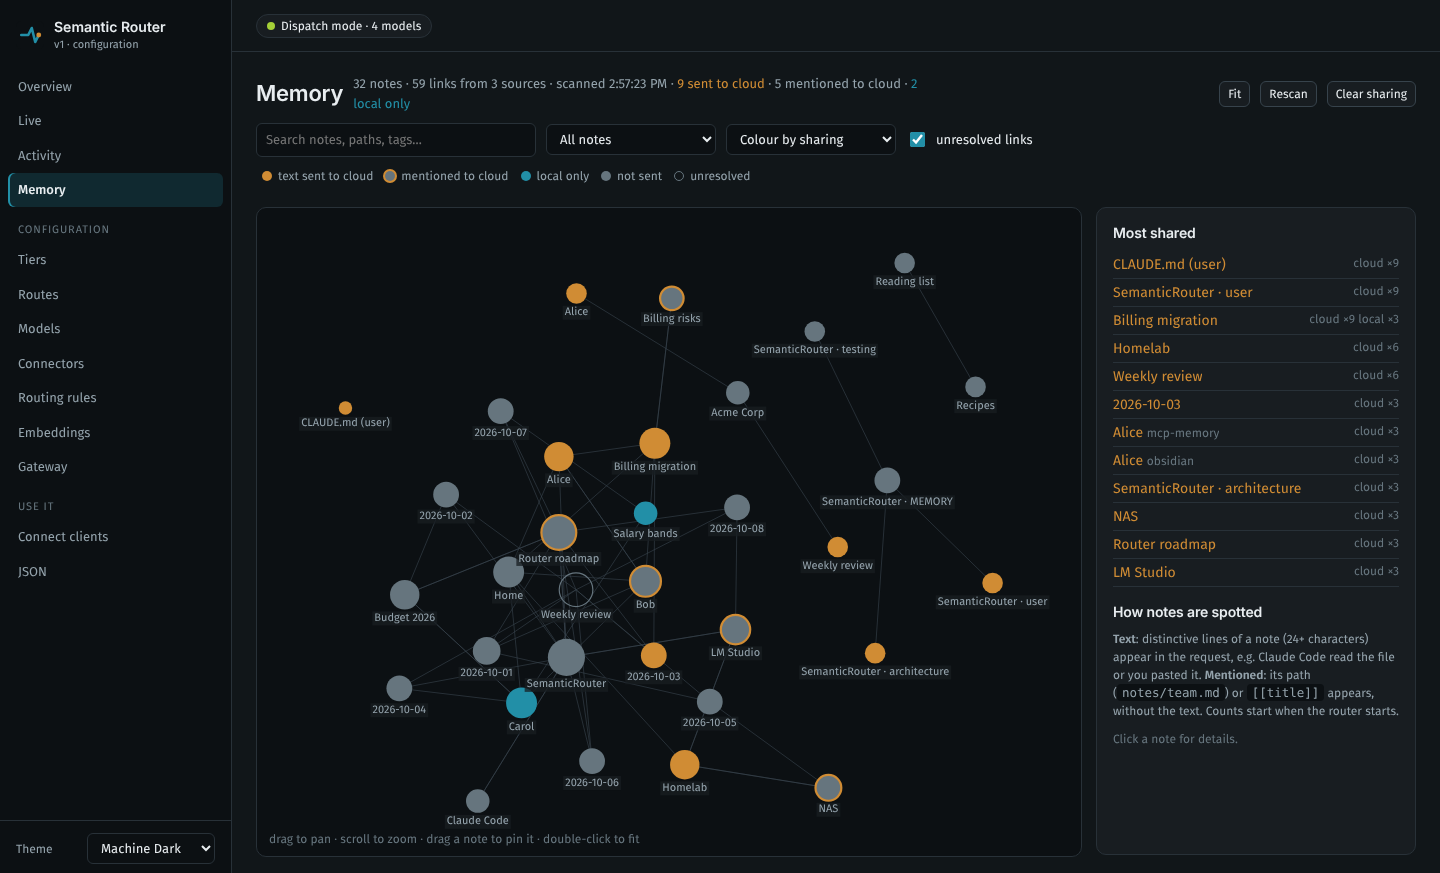
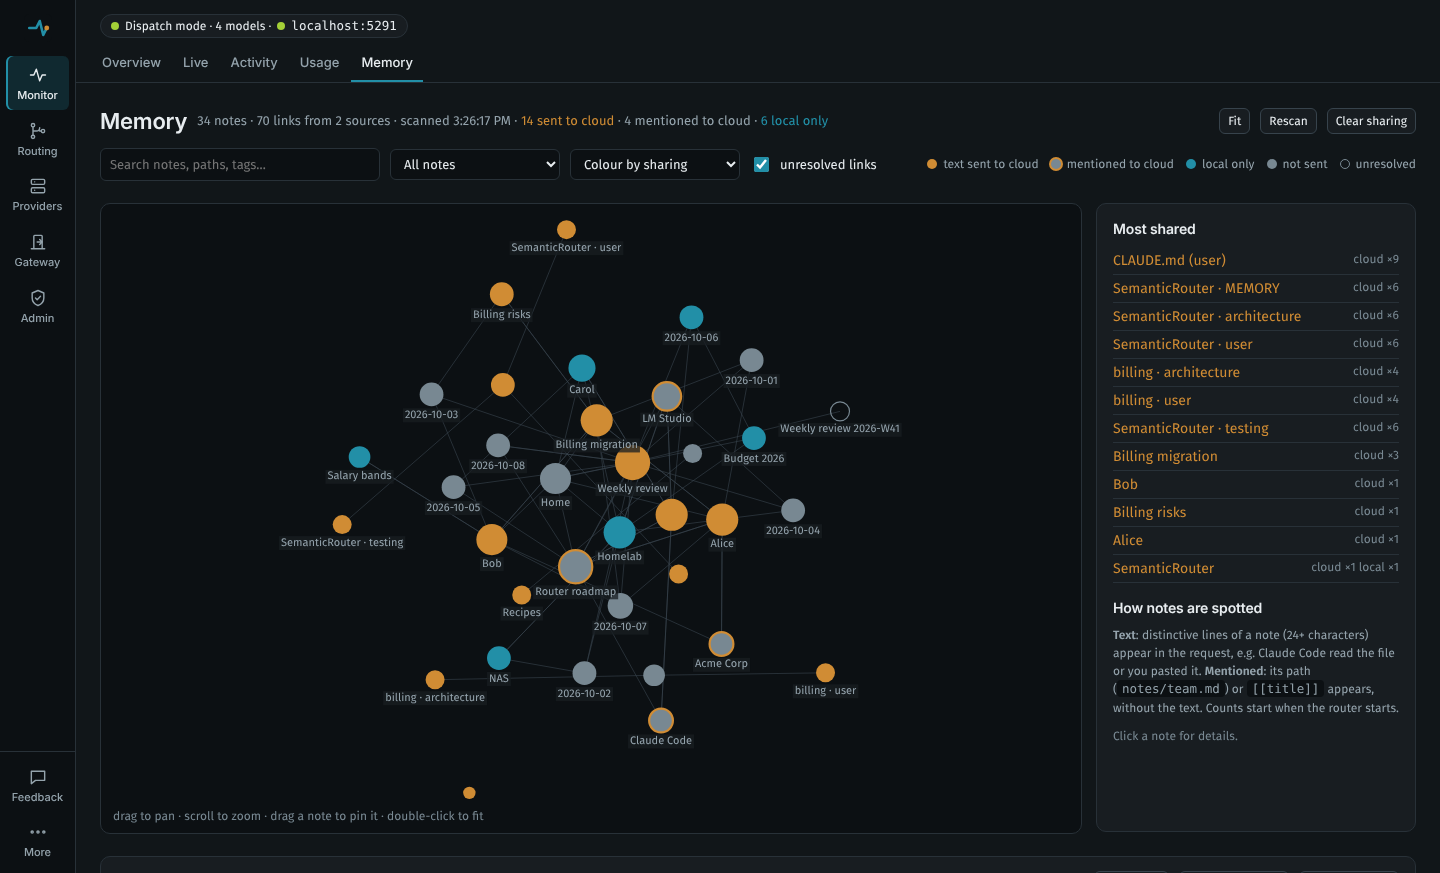
Docs: retake Live and Memory screenshots; point to the new section paths
The Live and memory-map images showed the old sidebar; they are retaken
with the section rail and a demo setup (four models, three named
clients, two memory sources, 43 requests).

Navigation paths in the docs and two CLI messages now name the section:
Gateway -> Settings -> Model aliases / Stored prompts, Routing ->
Profiles, Providers -> Models -> Discover models.

Claude-Session: https://claude.ai/code/session_01GVdrPAZhZXCPW9NcLfrxwu

diff --git a/src/SemanticRouter.Hosting/InitCommand.cs b/src/SemanticRouter.Hosting/InitCommand.cs
@@ -144,7 +144,7 @@ internal static class InitCommand
             if (probe.Failure is ConnectorProbeFailure.AuthenticationRequired or ConnectorProbeFailure.CredentialsRejected)
             {
                 document.Connectors[name] = connector;
-                notes.Add($"{name}: found at {address}, but it requires an API token. Set SemanticRouter:Connectors:{name}:ApiKey (e.g. \"${{env:LM_API_TOKEN}}\"), then add its models on the dashboard (Models → Discover models).");
+                notes.Add($"{name}: found at {address}, but it requires an API token. Set SemanticRouter:Connectors:{name}:ApiKey (e.g. \"${{env:LM_API_TOKEN}}\"), then add its models on the dashboard (Providers → Models → Discover models).");
                 continue;
             }
 

diff --git a/src/SemanticRouter.Hosting/ModelsCommand.cs b/src/SemanticRouter.Hosting/ModelsCommand.cs
@@ -53,7 +53,7 @@ internal static class ModelsCommand
             await output.WriteLineAsync($"Tiers come from the model-family table ({families}) where a family is known, else from the size or name.").ConfigureAwait(false);
         }
 
-        await output.WriteLineAsync("Add models on the dashboard: Models → Discover models fills in these suggestions, and every field can be changed before adding.").ConfigureAwait(false);
+        await output.WriteLineAsync("Add models on the dashboard: Providers → Models → Discover models fills in these suggestions, and every field can be changed before adding.").ConfigureAwait(false);
         return 0;
     }
 

diff --git a/docs/dashboard.md b/docs/dashboard.md
@@ -153,7 +153,7 @@ All under the dashboard prefix, JSON in and out. Who may call it is described in
 | `GET api/config/history/{id}` | That version's document (masked). |
 | `POST api/config/history/{id}/rollback` | Apply and save that version; recorded as a `rollback`. |
 | `GET api/activity?limit=100&after=<id>` | Recent routing activity. Entries carry `sentTo` (the models a request was sent to, failed attempts included) and `memory` (notes found in it); `feedback` maps entry ids to the [feedback](routing-quality.md#feedback) they received. |
-| `DELETE api/activity?since=&until=` | Delete activity and its prompt previews for good: everything, or the range given (**Gateway → Stored prompts → Delete all activity**). See [host.md](host.md#what-the-router-stores). Admin role only. |
+| `DELETE api/activity?since=&until=` | Delete activity and its prompt previews for good: everything, or the range given (**Gateway → Settings → Stored prompts → Delete all activity**). See [host.md](host.md#what-the-router-stores). Admin role only. |
 | `GET api/feedback?limit=200` | Recent feedback about routing decisions, newest first. |
 | `GET api/feedback/summary?days=7` | Decisions and feedback per route and per model, with the share that received feedback. |
 | `GET api/tuning`, `POST api/tuning/run`, `POST api/tuning/changes/{id}/undo` … | [Automatic tuning](routing-quality.md#automatic-tuning): what the router learned, why, and undo. |
@@ -318,7 +318,7 @@ Budgets stop spending once a period's limit is reached, but an agent stuck in a 
 }
 ```
 
-An entry is named after a gateway client (a name from `GatewayKeys`). `*` covers every client without its own entry, including clients that send no key, which are counted per address. A request is charged its estimated input tokens when it is admitted and the rest once the reply's usage is known. It is admitted while the client is under both limits. A client over a limit gets `429` with `Retry-After` (the seconds until enough of its last minute has passed) in its protocol's error format: Anthropic `rate_limit_error`, OpenAI Responses `rate_limit_exceeded`, a problem document for chat completions. The request reaches no model and shows in Activity as **rate limited**, with the limit it hit. The **Gateway** page edits the limits and lists each client's requests and tokens in the last minute and how often it was turned away. Without entries, clients on other machines are still limited to `RemoteRequestsPerMinute` (120) each, shown as `remote default`; 0 turns that off. Clients on this machine are not limited unless an entry covers them. Counts are kept in memory, so a restart starts them again; changing a limit takes effect at once.
+An entry is named after a gateway client (a name from `GatewayKeys`). `*` covers every client without its own entry, including clients that send no key, which are counted per address. A request is charged its estimated input tokens when it is admitted and the rest once the reply's usage is known. It is admitted while the client is under both limits. A client over a limit gets `429` with `Retry-After` (the seconds until enough of its last minute has passed) in its protocol's error format: Anthropic `rate_limit_error`, OpenAI Responses `rate_limit_exceeded`, a problem document for chat completions. The request reaches no model and shows in Activity as **rate limited**, with the limit it hit. **Gateway → Settings** edits the limits and lists each client's requests and tokens in the last minute and how often it was turned away. Without entries, clients on other machines are still limited to `RemoteRequestsPerMinute` (120) each, shown as `remote default`; 0 turns that off. Clients on this machine are not limited unless an entry covers them. Counts are kept in memory, so a restart starts them again; changing a limit takes effect at once.
 
 ## Themes
 

diff --git a/docs/host.md b/docs/host.md
@@ -120,7 +120,7 @@ A CLI that the [machine-wide policy](enterprise.md) turns off (`DisabledConnecto
 
 | Where | What | Kept for | How to delete it |
 |---|---|---|---|
-| `semantic-router.db`, table `activity` | One entry per request: time, client name, project label (the `X-Router-Project` header, or else a hash of the client's user id, never the id; none for Claude Code's JSON user id), models, tiers, tokens, cost, notes, and a **prompt preview** (see below) | 30 days or 10,000 entries (`State:Retention:ActivityDays`, `ActivityEntries`) | **Gateway → Stored prompts → Delete all activity**, or `DELETE /router/api/activity?since=…&until=…` |
+| `semantic-router.db`, table `activity` | One entry per request: time, client name, project label (the `X-Router-Project` header, or else a hash of the client's user id, never the id; none for Claude Code's JSON user id), models, tiers, tokens, cost, notes, and a **prompt preview** (see below) | 30 days or 10,000 entries (`State:Retention:ActivityDays`, `ActivityEntries`) | **Gateway → Settings → Stored prompts → Delete all activity**, or `DELETE /router/api/activity?since=…&until=…` |
 | `semantic-router.db`, table `feedback` | Retries, corrections, labels and grades per request: tiers and short notes, no prompt text | As activity | With the activity it belongs to ageing out |
 | `semantic-router.db`, table `usage` | Tokens and cost per request, by model, connector, route, client and profile; no prompt text | 400 days (`State:Retention:UsageDays`) | Delete the file |
 | `semantic-router.db`, table `config_history` | Every applied configuration, with secrets masked, and who applied it | 200 versions (`State:Retention:ConfigurationVersions`) | Delete the file |

diff --git a/docs/clients.md b/docs/clients.md
@@ -49,7 +49,7 @@ export ANTHROPIC_CUSTOM_HEADERS="X-Router-Project: acme-payments"
 
 **Conversations.** Claude Code sends `x-claude-code-session-id` on every request; the router uses it, with the client and the first user message, to recognise the conversation across turns ([conversation routing](routing-quality.md#conversations)).
 
-**A configuration from an earlier `init`** has `"*opus*": "family:opus"`. Now that Claude Code's default model is Opus, that sends every turn to Opus (`X-Prompt-Route-Reason: ModelOverride`): nothing is routed. The router does not rewrite your configuration. Change it on the dashboard under **Gateway → Model aliases** (**Add Claude Code defaults** sets these), or in `semantic-router.json`:
+**A configuration from an earlier `init`** has `"*opus*": "family:opus"`. Now that Claude Code's default model is Opus, that sends every turn to Opus (`X-Prompt-Route-Reason: ModelOverride`): nothing is routed. The router does not rewrite your configuration. Change it on the dashboard under **Gateway → Settings → Model aliases** (**Add Claude Code defaults** sets these), or in `semantic-router.json`:
 
 ```json
 "ModelAliases": {

diff --git a/docs/routing-profiles.md b/docs/routing-profiles.md
@@ -117,7 +117,7 @@ A model with `ActiveHours` is only tried inside that daily window. The window ca
 
 ## Seeing it
 
-- **Dashboard → Profiles** edits the profiles, the rules, the virtual models, client mappings and the content signals. **What would each profile do?** routes one prompt under every profile side by side, without calling a model. It uses the applied configuration.
+- **Routing → Profiles** on the dashboard edits the profiles, the rules, the virtual models, client mappings and the content signals. **What would each profile do?** routes one prompt under every profile side by side, without calling a model. It uses the applied configuration.
 - **Response headers:** `X-Prompt-Route-Profile` and `X-Prompt-Route-Local-Only`.
 - **Activity:** each entry shows its profile, project and the signals that kept it local, and the filter can show one profile's requests.
 - **Admin API:** `POST api/classify` takes `{ "prompt": "…", "profile": "work" }` and returns the plan under that profile, with `requiredTier` after the profile's floor and ceiling.
